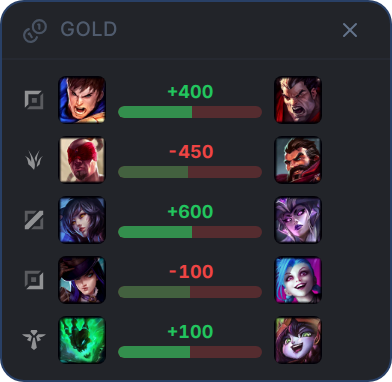
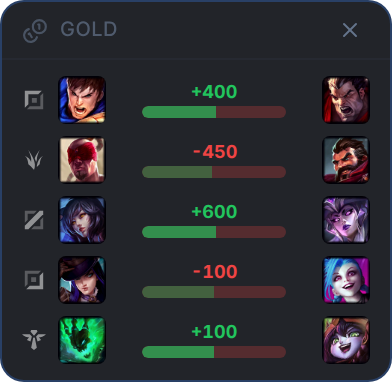
fix(overlay): симметричные отступы по краям — justify-between в строке

diff --git a/src/components/GoldLaneRow.tsx b/src/components/GoldLaneRow.tsx
@@ -25,10 +25,12 @@ export function GoldLaneRow({ lane }: { lane: LaneGoldComparison }) {
   );
 
   return (
-    <div className="flex items-center gap-1.5">
-      <RoleIcon role={lane.role} size={12} />
-      {champImg(lane.allyChampionName)}
-      <div className="flex flex-col items-stretch shrink-0" style={{ width: 72 }}>
+    <div className="flex items-center justify-between">
+      <div className="flex items-center gap-1.5 shrink-0">
+        <RoleIcon role={lane.role} size={12} />
+        {champImg(lane.allyChampionName)}
+      </div>
+      <div className="flex flex-col items-stretch shrink-0 mx-1.5" style={{ width: 72 }}>
         <p className={`text-[9px] font-bold text-center leading-tight tabular-nums ${diffColor}`}>
           {diffText}
         </p>
